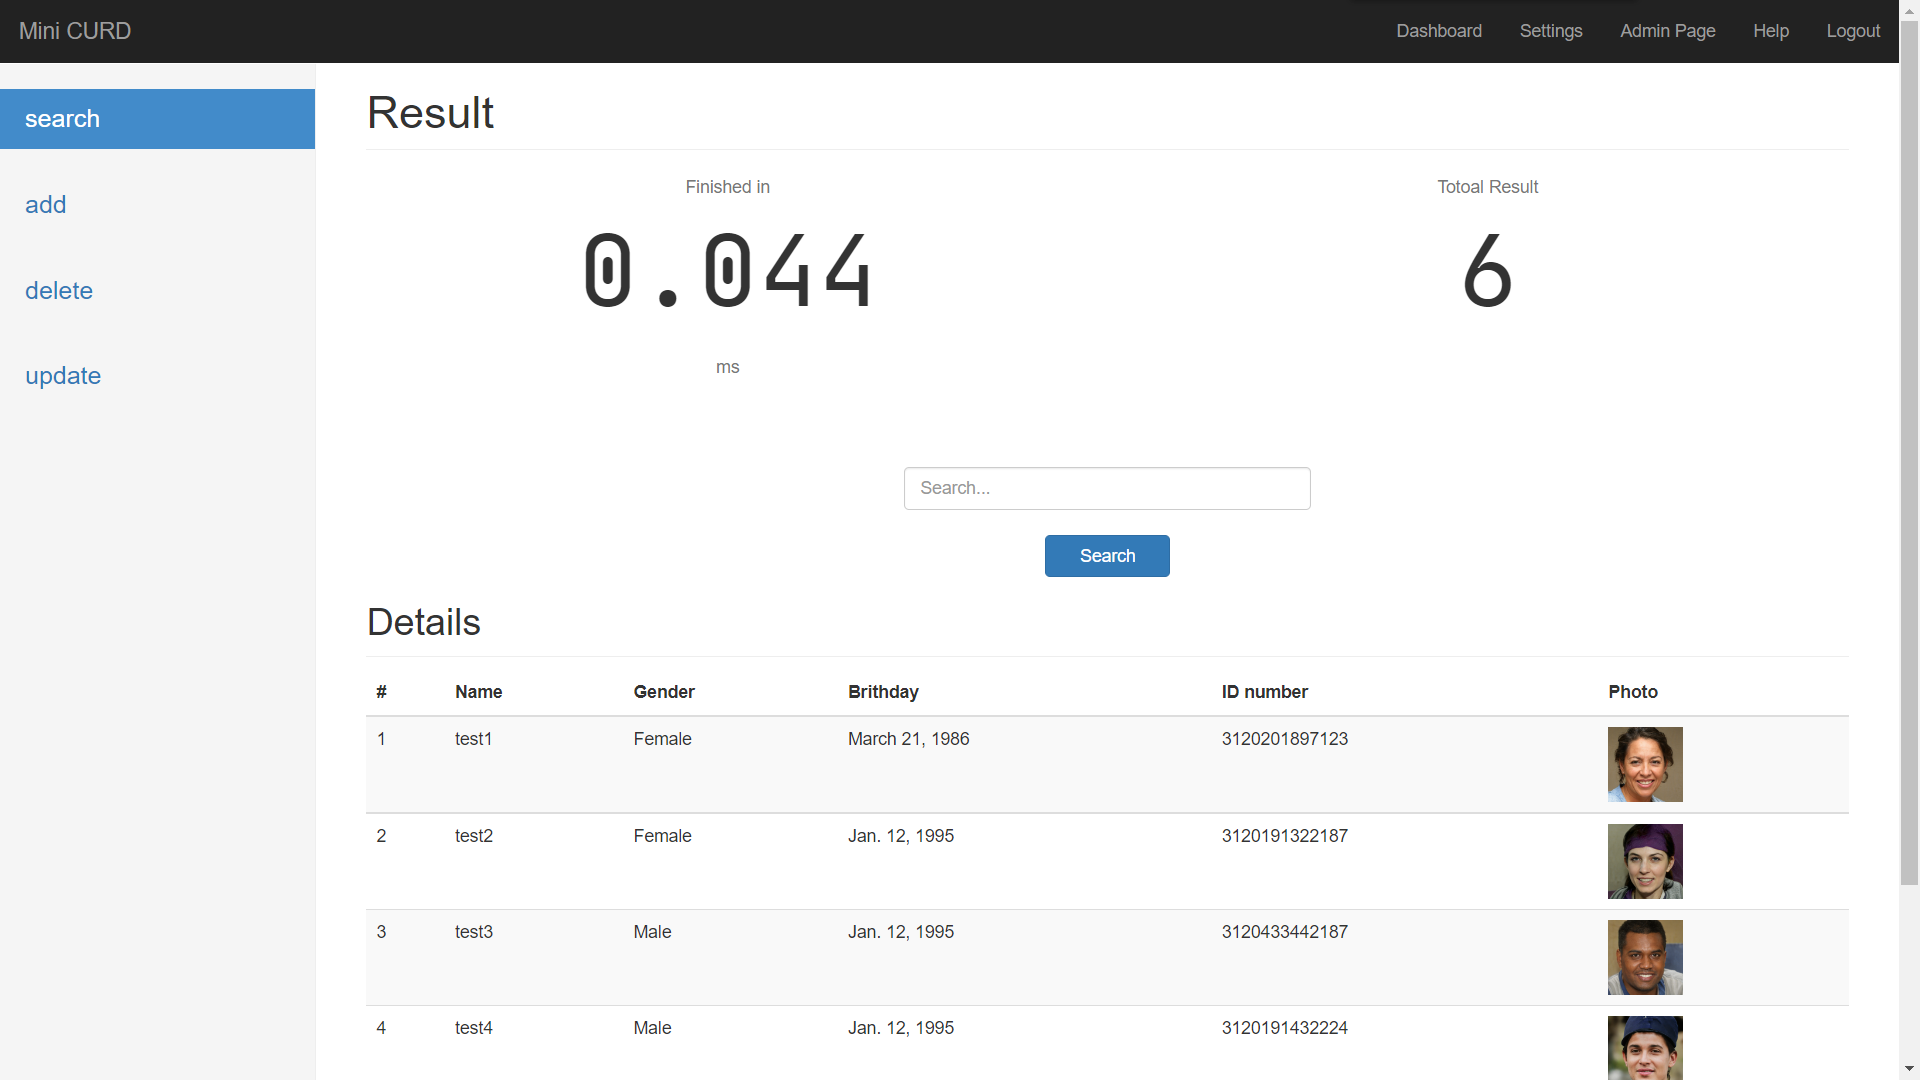
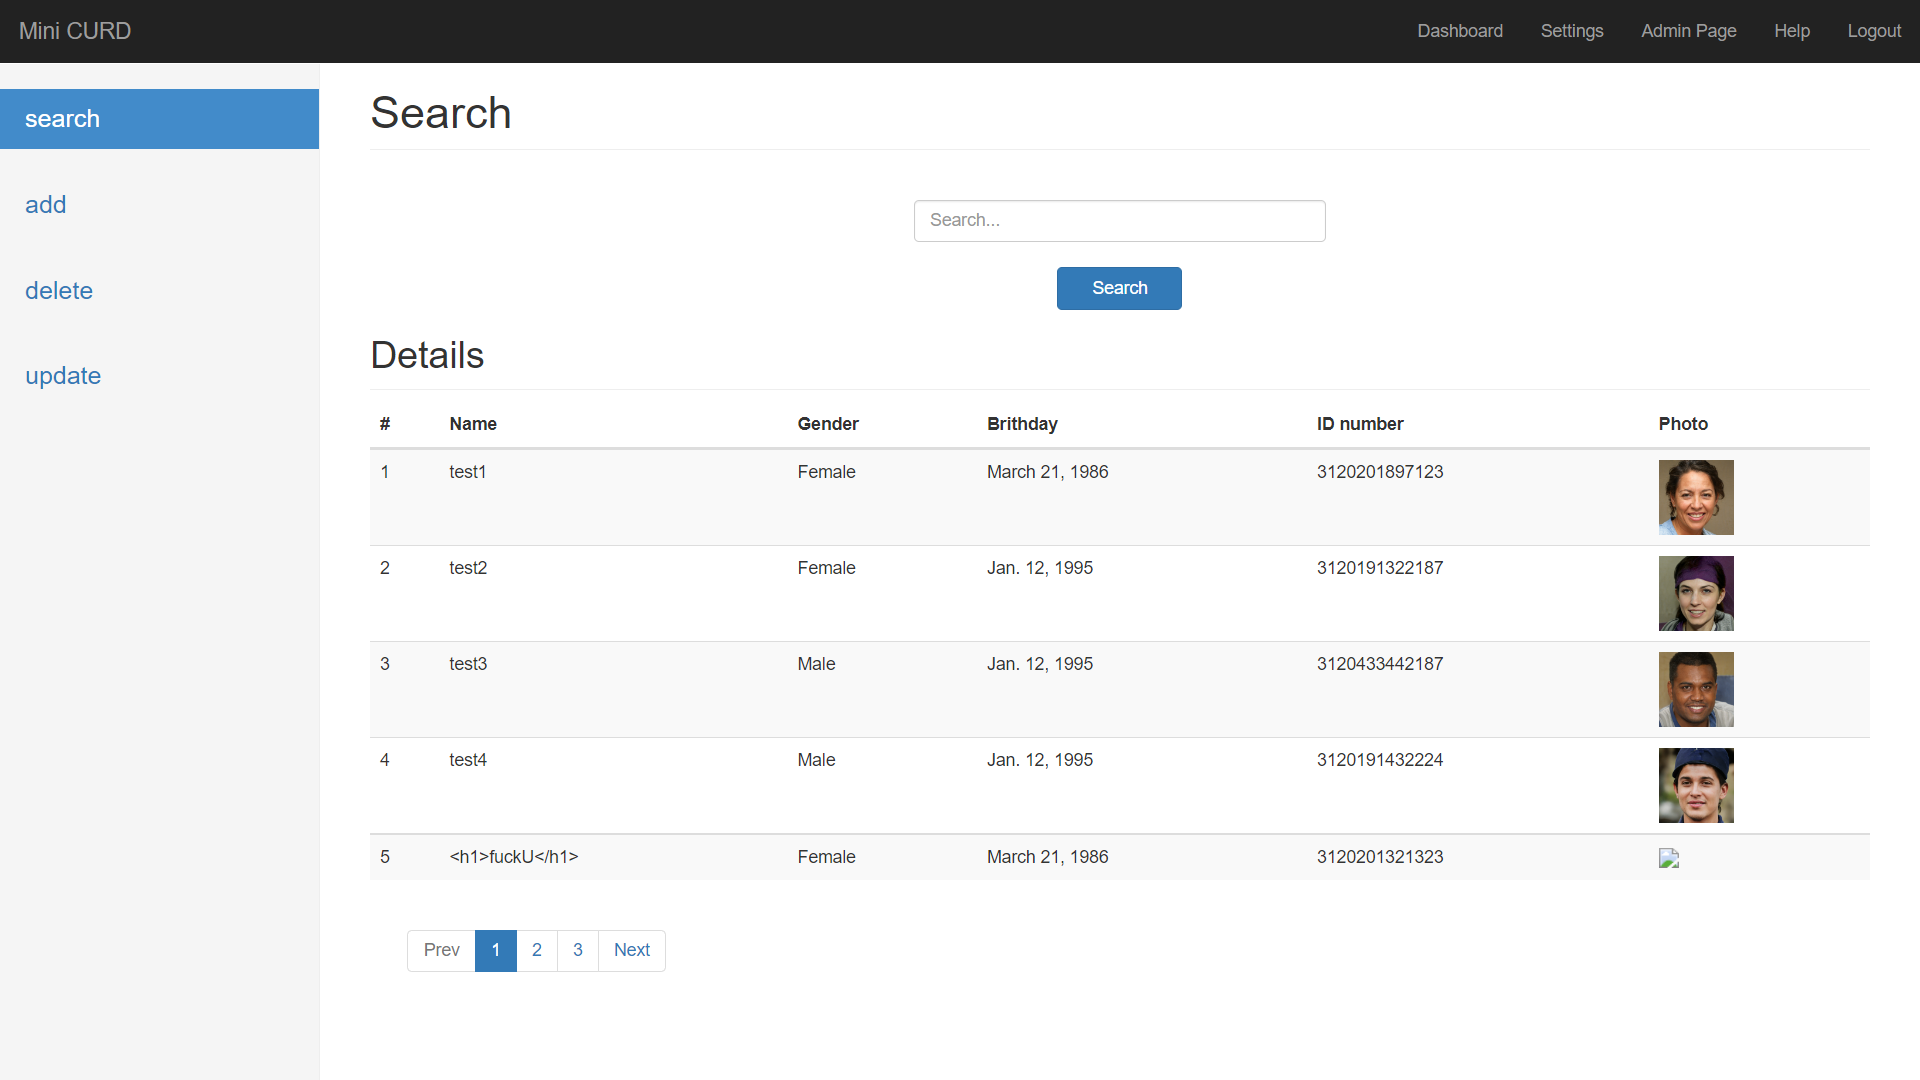
fix bug & update readme

diff --git a/templates/get_page.html b/templates/get_page.html
@@ -36,8 +36,8 @@
         {% else %}
         <li class="previous disabled"><a>Prev</a></li>
         {% endif %}
-         
-        {% if objs.number > min_page and not_reach_max_flag %}
+        
+        {% if objs.number > min_page and not_reach_max %}
         <li><a>...</a></li>
         {% else %}
         {% endif %}
@@ -51,7 +51,7 @@
             {% endif %}
         {% endfor %}
 
-        {% if objs.number < max_page and not_reach_max_flag %}
+        {% if objs.number < max_page and not_reach_max %}
         <li><a>...</a></li>
         {% else %}
         {% endif %}        

diff --git a/app_curd/views.py b/app_curd/views.py
@@ -28,8 +28,8 @@ def get_page(request):
     if page == None:
         page = "1"
     page_num = int(page)    #当前页数
-    pre_page = 3            #每页元素数目
-    slice_max = 5           #最大同时页数
+    pre_page = 5            #每页元素数目
+    slice_max = 3           #最大同时页数
     max_page = 1            #最大页数
     min_page = 1            #最小页数
     not_reach_max_flag = True  #同时页数是否超过最大页
@@ -38,7 +38,7 @@ def get_page(request):
     if query != None:
         objs = search(query)    #查询
         max_page = ceil(objs.count()/pre_page)
-        if slice_max > max_page:
+        if slice_max >= max_page:
             slice_max = max_page
             not_reach_max_flag = False
             paginator = Paginator(objs,pre_page)
@@ -64,10 +64,11 @@ def get_page(request):
     except (EmptyPage, InvalidPage):
         # 创建最终的page对象
         page_obj = paginator.page(paginator.num_pages)
-    print(page_obj.count)
+
+    print(not_reach_max_flag)
     return render(request,"get_page.html",{
         "objs":page_obj,
-        "max_page":max_page-ceil(slice_max/2),
-        "min_page":min_page+ceil(slice_max/2),
+        "max_page":max_page-int(slice_max/2),
+        "min_page":min_page+int(slice_max/2),
         "not_reach_max":not_reach_max_flag
     })

diff --git a/README.md b/README.md
@@ -27,6 +27,7 @@
         - [ ] Update
         - [ ] Search (Doing)
           - [x] Search 使用Jquery Ajax 局部刷新分页
+          - [x] 搜索结果下标
           - [ ] 模糊搜索算法 `app_curd\untils\fuzz_search.py`
         - [ ] Delete
 - 文档
